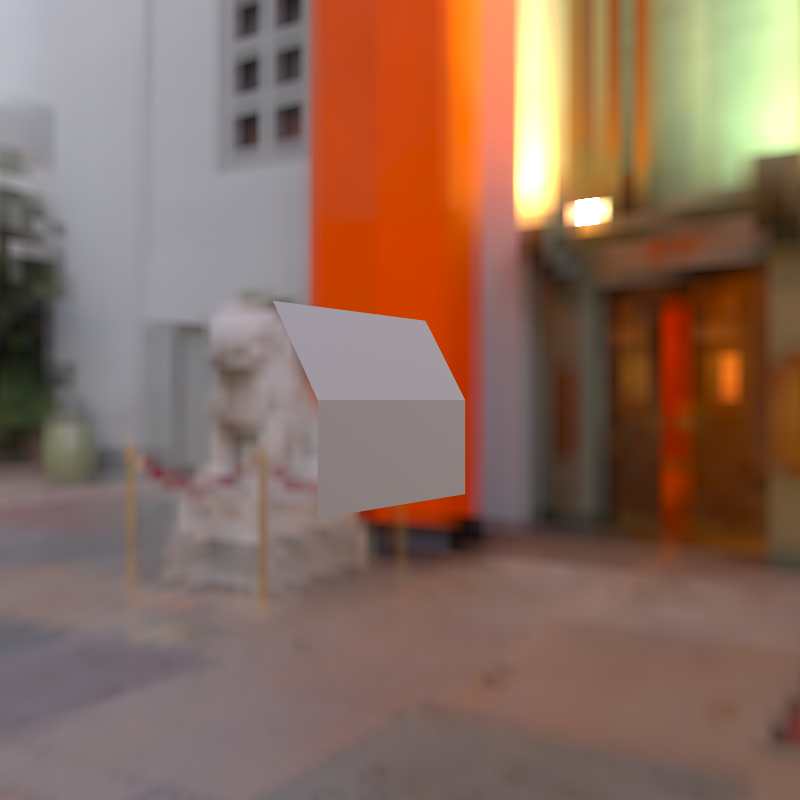
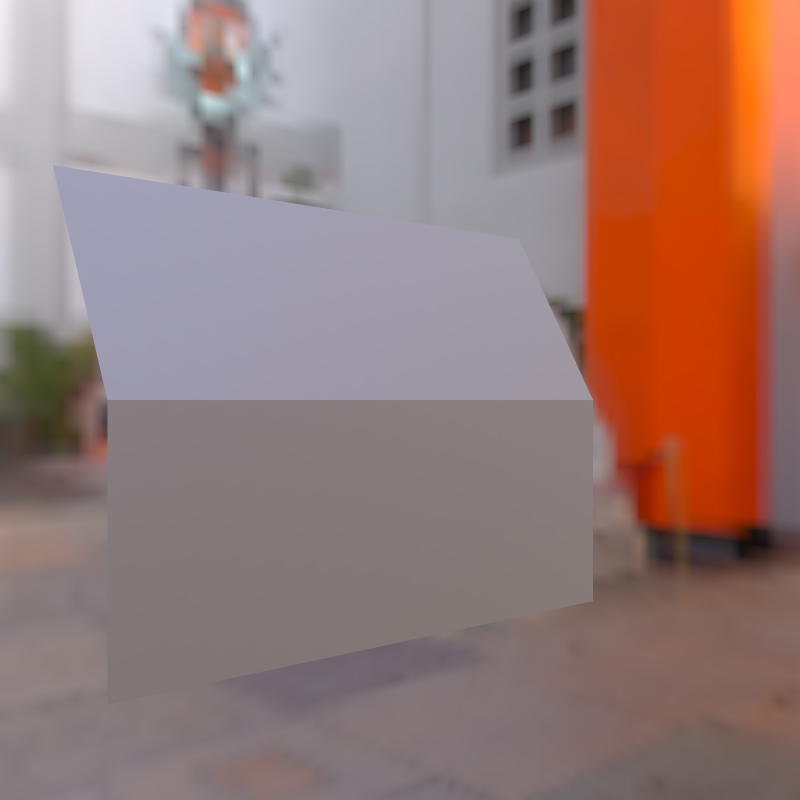
Fix camera position for model 7

diff --git a/Source/ModelGroups/Animation_Skin.cs b/Source/ModelGroups/Animation_Skin.cs
@@ -276,7 +276,6 @@ namespace AssetGenerator
                     nodes[2].Translation = null;
                     nodes[0].Skin.SkinJoints.ElementAt(1).InverseBindMatrix = Matrix4x4.Identity;
 
-                    camera.SetTranslationWithVector3 = distantCameraValue;
                     properties.Add(new Property(PropertyName.Description, "`skinA` where joint1 is a root node and not a child of joint0."));
                 }),
                 CreateModel((properties, animations, nodes, camera) => {
